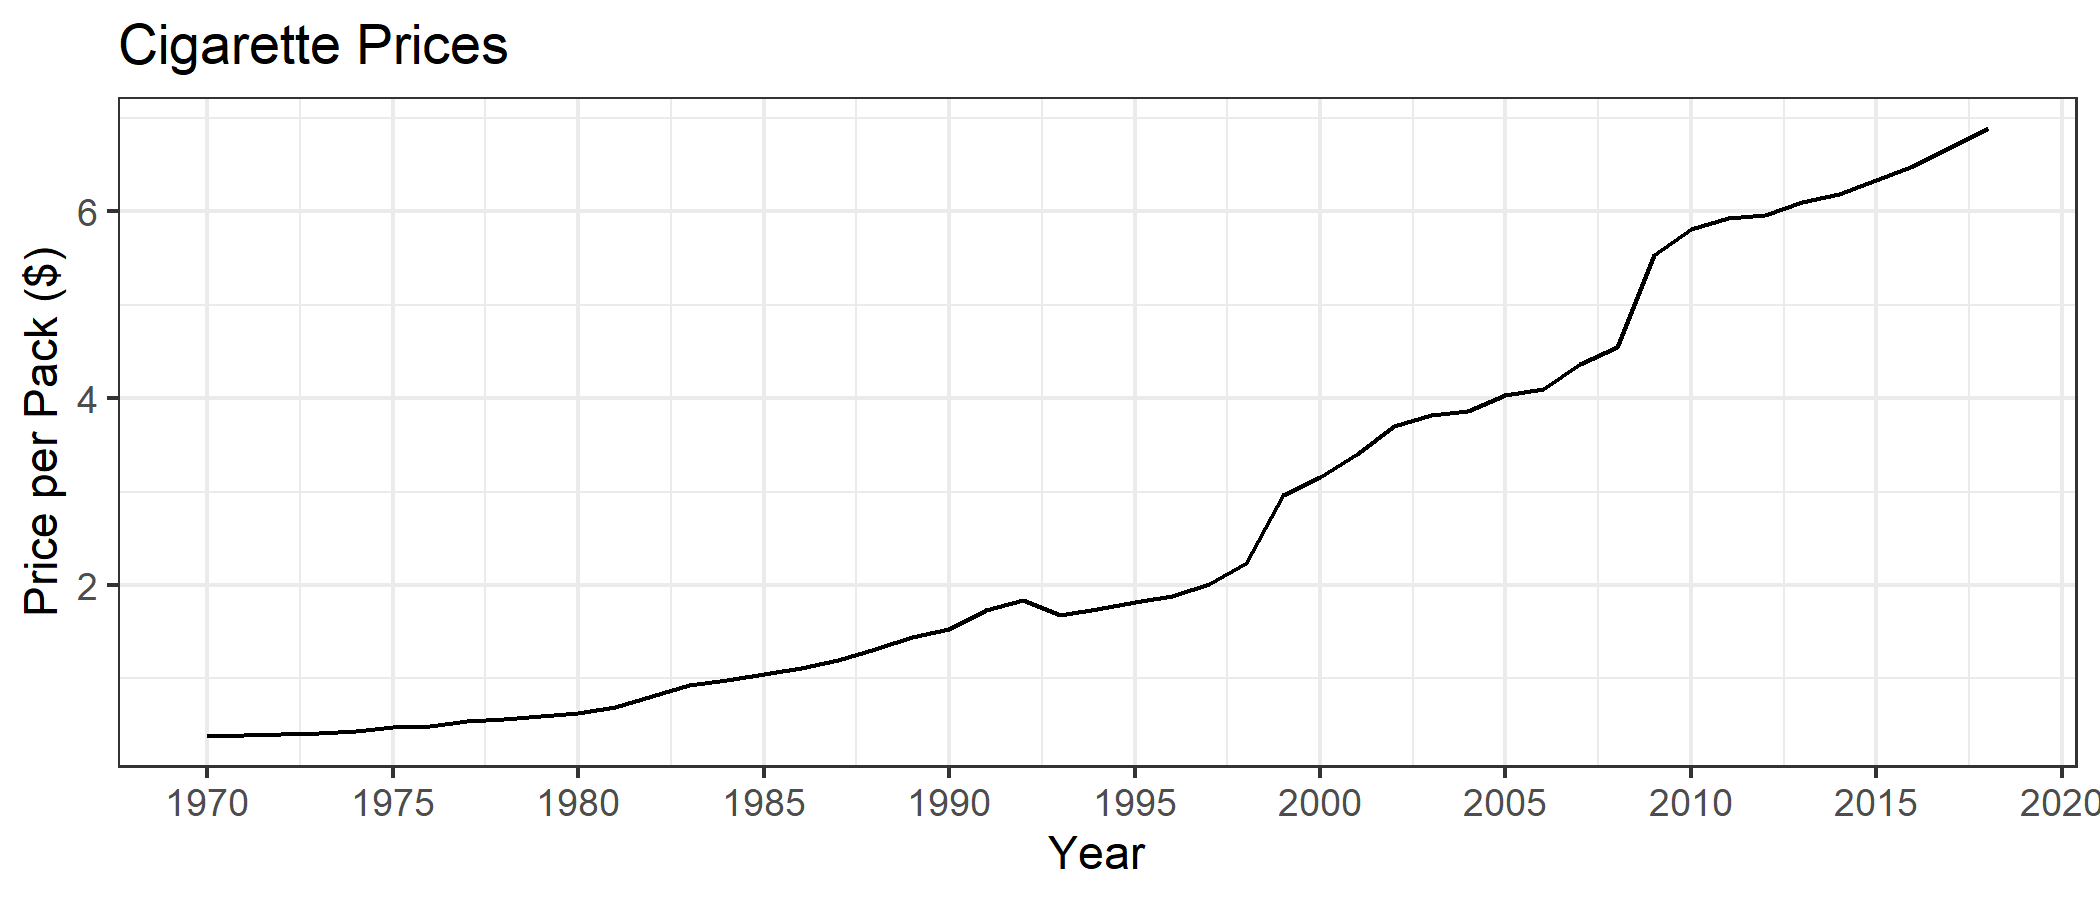
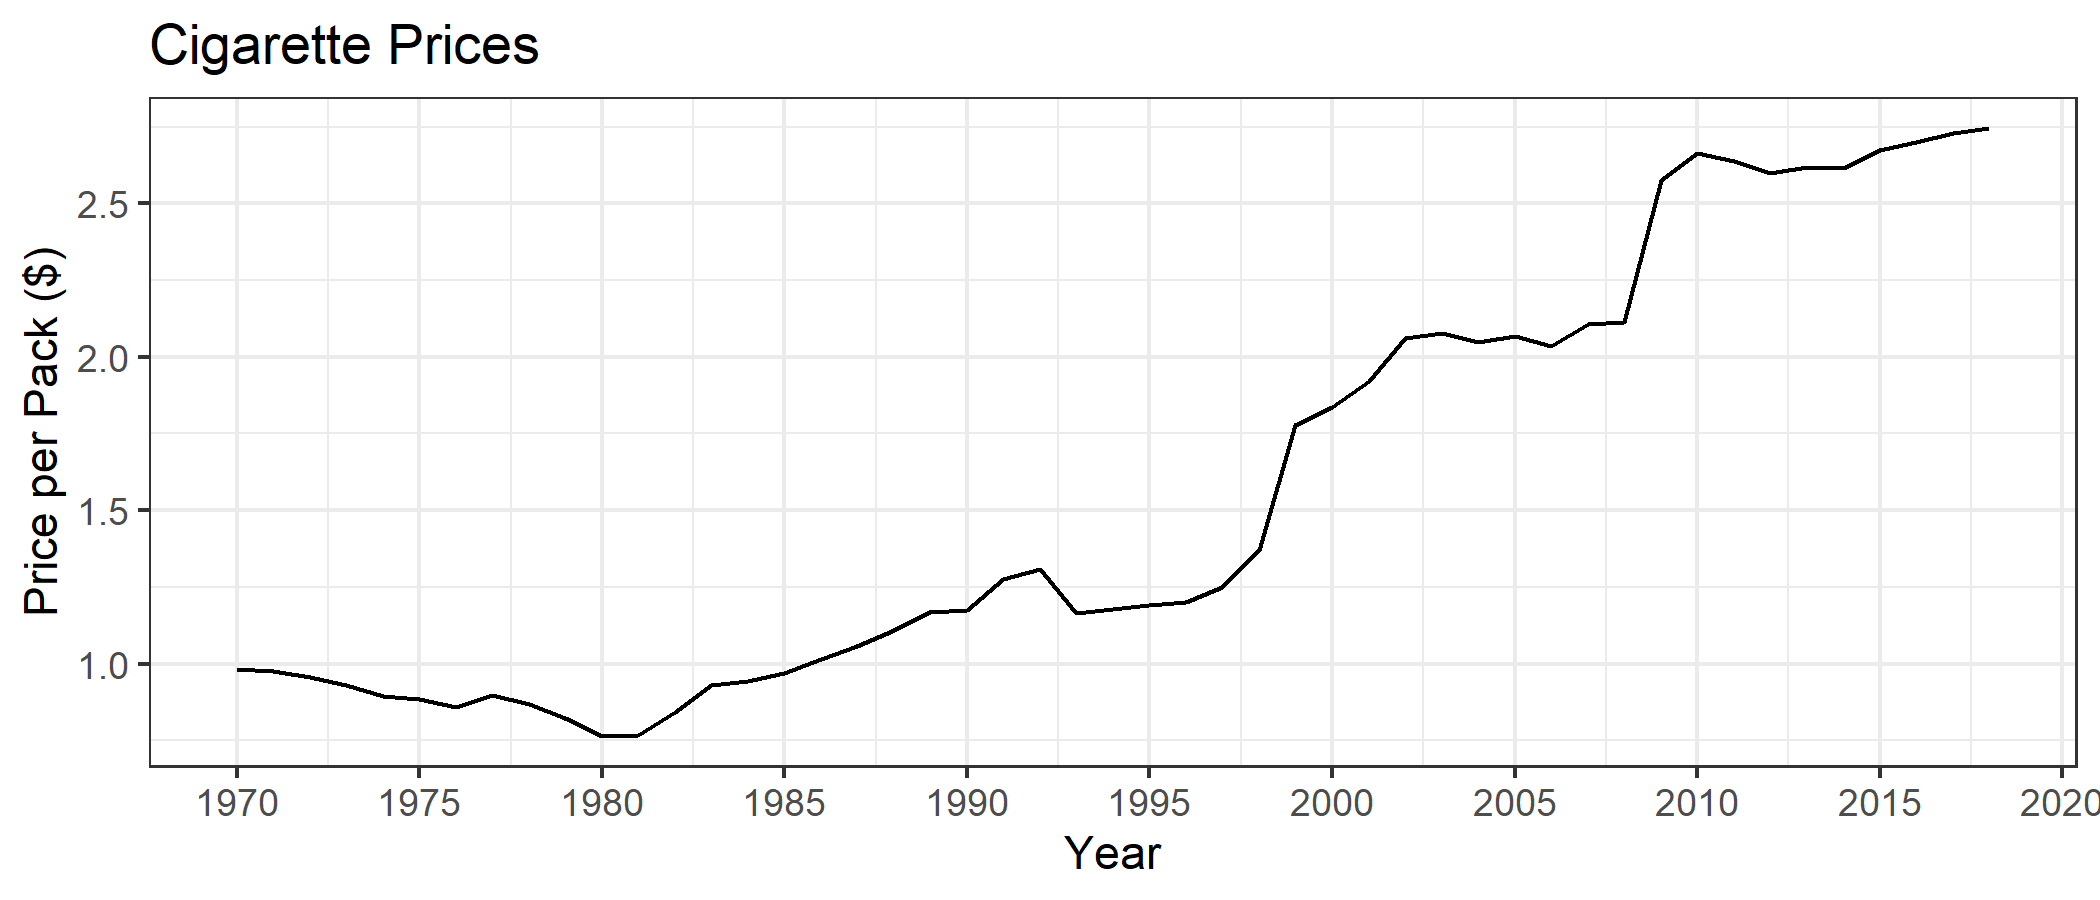
update section 4 IV notes

diff --git a/04-IV-Smoking/04-IV-Smoking.html b/04-IV-Smoking/04-IV-Smoking.html
@@ -225,11 +225,40 @@ name: smoking_data
 ---
 # The Data
 
+- Data from [CDC Tax Burden on Tobacco](https://data.cdc.gov/Policy/The-Tax-Burden-on-Tobacco-1970-2018/7nwe-3aj9/data)
+- Visit GitHub repository for other info: [Tobacco GitHub repository](https://github.com/imccart/CDC-Tobacco)
+- Supplement with CPI data, also in GitHub repo.
 
+
+---
+# Cigarette Sales
 
 ```r
 cig.data %&gt;% 
-  ggplot(aes(x=Year,y=cost_per_pack)) + 
+  ggplot(aes(x=Year,y=sales_per_capita)) + 
+  stat_summary(fun.y="mean",geom="line") +
+  labs(
+    x="Year",
+    y="Packs per Capita",
+    title="Cigarette Prices"
+  ) + theme_bw() +
+  scale_x_continuous(breaks=seq(1970, 2020, 5))
+```
+.plot-callout[
+&lt;img src="04-IV-Smoking_files/figure-html/cig-sales-callout-1.png" style="display: block; margin: auto;" /&gt;
+]
+
+---
+# Cigarette Sales
+
+
+
+---
+# Cigarette Prices
+
+```r
+cig.data %&gt;% 
+  ggplot(aes(x=Year,y=price_cpi)) + 
   stat_summary(fun.y="mean",geom="line") +
   labs(
     x="Year",
@@ -241,6 +270,13 @@ cig.data %&gt;%
 .plot-callout[
 &lt;img src="04-IV-Smoking_files/figure-html/cig-price-callout-1.png" style="display: block; margin: auto;" /&gt;
 ]
+
+---
+# Cigarette Prices
+
+
+
+
 
 
 &lt;!-- New Section --&gt;
@@ -303,7 +339,7 @@ cig.data %&gt;%
   scale_x_continuous(breaks=seq(1970, 2020, 5))
 ```
 
-&lt;img src="04-IV-Smoking_files/figure-html/unnamed-chunk-8-1.png" style="display: block; margin: auto;" /&gt;
+&lt;img src="04-IV-Smoking_files/figure-html/unnamed-chunk-4-1.png" style="display: block; margin: auto;" /&gt;
     </textarea>
 <style data-target="print-only">@media screen {.remark-slide-container{display:block;}.remark-slide-scaler{box-shadow:none;}}</style>
 <script src="https://remarkjs.com/downloads/remark-latest.min.js"></script>
